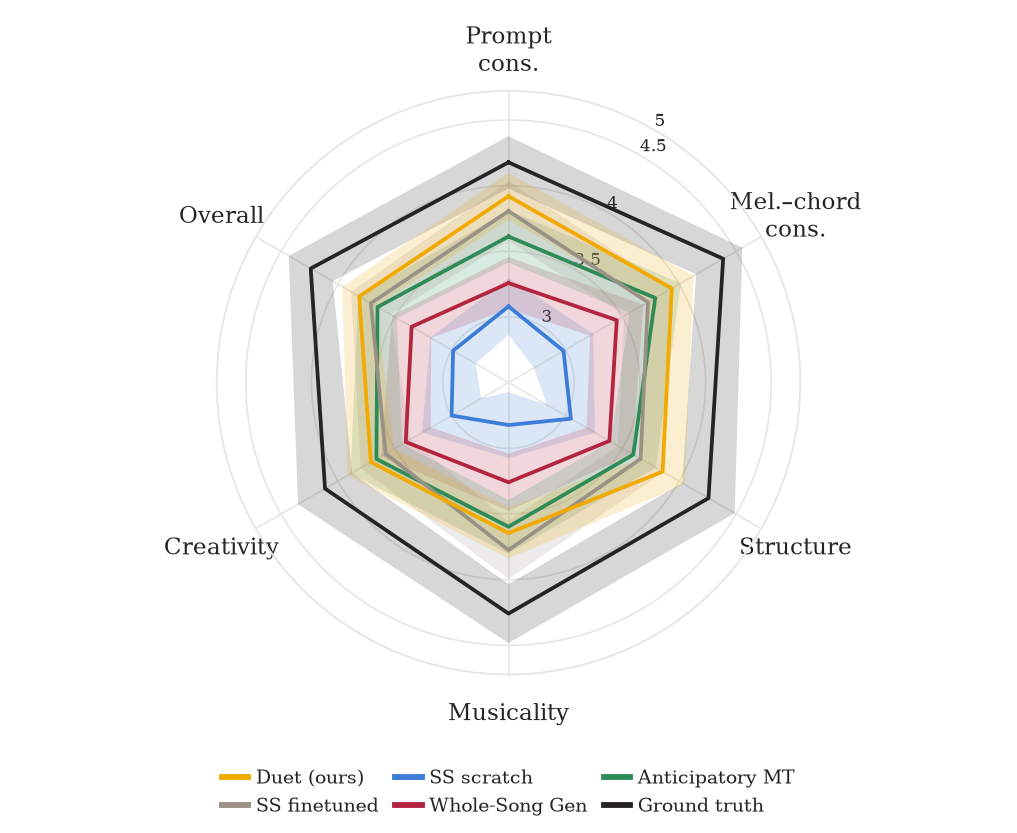
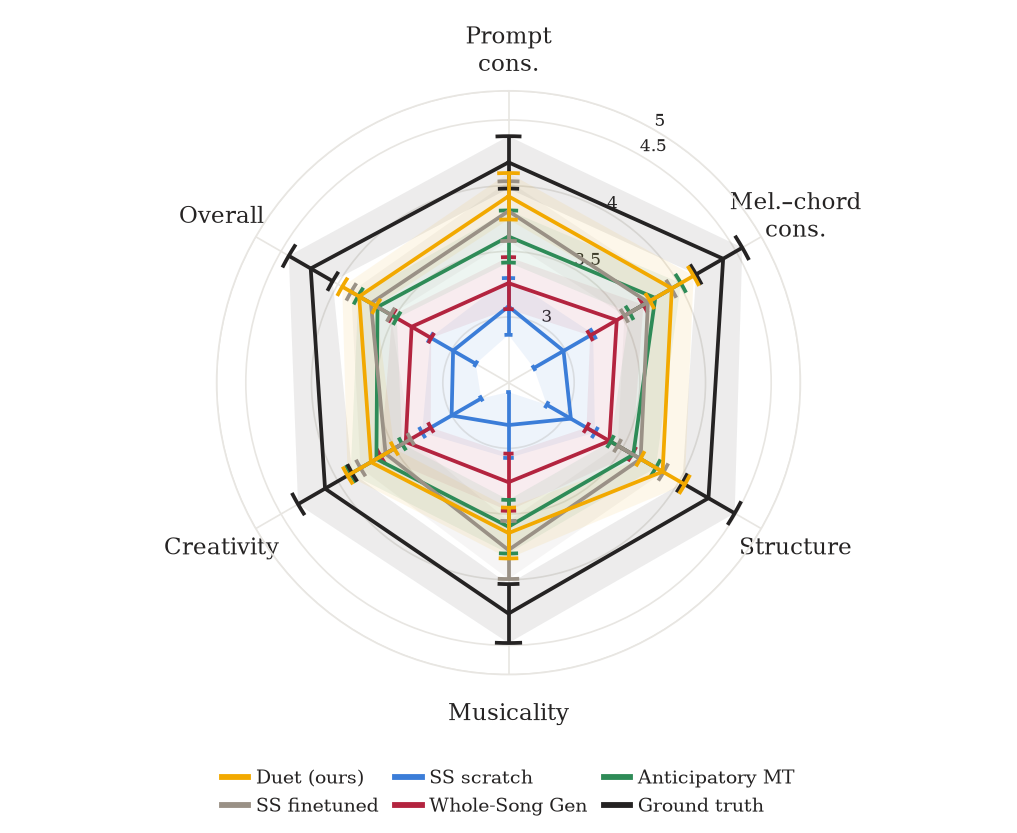
Subjective spider: capped radial CI bars on every spoke beside a lighter ring
Claude-Session: https://claude.ai/code/session_012w7PFbJyWP4meVE3CJpfno

diff --git a/midi_yinyang/figures/plot_subjective_spider.py b/midi_yinyang/figures/plot_subjective_spider.py
@@ -51,6 +51,9 @@ def main():
     ap.add_argument('--rmin', type=float, default=2.5, help='centre of the chart')
     ap.add_argument('--width', type=float, default=3.39)
     ap.add_argument('--alpha', type=float, default=0.18, help='band opacity')
+    ap.add_argument('--interval', choices=['fill', 'bars', 'both'], default='both',
+                    help='how the CI is drawn: a translucent ring (fill), a radial '
+                         'bar with caps on every spoke (bars), or both')
     ap.add_argument('--knee', type=float, default=4.5,
                     help='rating above which the radius is squeezed')
     ap.add_argument('--squash', type=float, default=0.1,
@@ -107,9 +110,22 @@ def main():
         m = r(np.concatenate([mean[i], mean[i][:1]]))
         lo = r(np.concatenate([mean[i] - ci[i], (mean[i] - ci[i])[:1]]))
         hi = r(np.concatenate([mean[i] + ci[i], (mean[i] + ci[i])[:1]]))
-        # the within-subject CI as a ring between the two polygons
-        ax.fill(np.concatenate([ang_c, ang_c[::-1]]), np.concatenate([hi, lo[::-1]]),
-                color=col, alpha=args.alpha, lw=0, zorder=2)
+        # the within-subject CI: a ring between the two polygons and/or a
+        # radial bar with caps on every spoke, which stays readable where
+        # rings overlap
+        if args.interval in ('fill', 'both'):
+            ax.fill(np.concatenate([ang_c, ang_c[::-1]]), np.concatenate([hi, lo[::-1]]),
+                    color=col, alpha=args.alpha if args.interval == 'fill' else args.alpha * 0.45,
+                    lw=0, zorder=2)
+        if args.interval in ('bars', 'both'):
+            cap = 0.045                      # cap half-width, radians (fixed)
+            for j in range(K):
+                ax.plot([ang[j], ang[j]], [lo[j], hi[j]], color=col, lw=0.9,
+                        solid_capstyle='butt', zorder=3)
+                for rr in (lo[j], hi[j]):
+                    # a cap is a short arc at fixed radius and fixed angle
+                    th = np.linspace(ang[j] - cap, ang[j] + cap, 5)
+                    ax.plot(th, np.full_like(th, rr), color=col, lw=0.9, zorder=3)
         # colour alone tells the systems apart (2026-09-24, by request):
         # no vertex markers; significance is stated in the text
         ax.plot(ang_c, m, color=col, lw=0.9, zorder=3)
